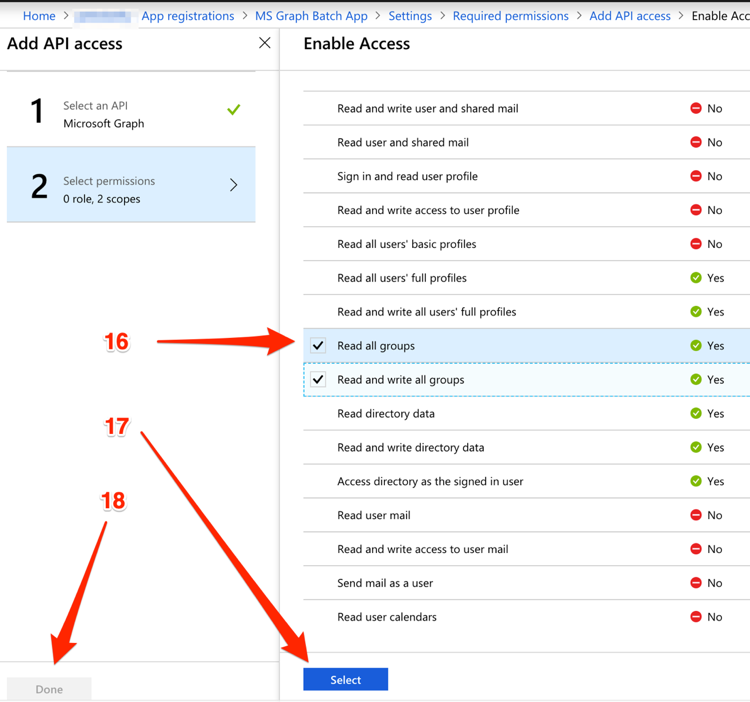
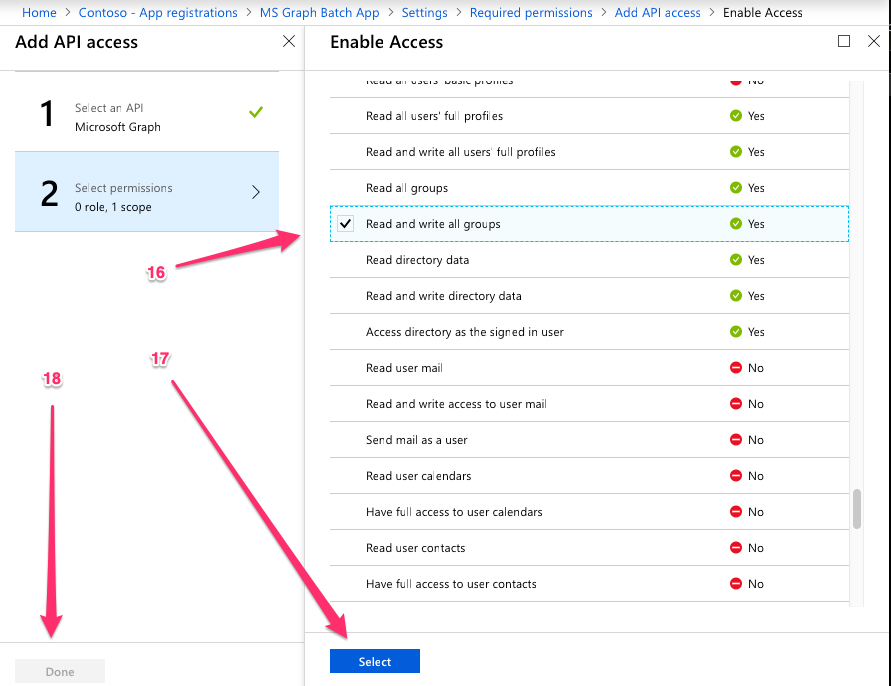
updates based on jasonjoh comments

diff --git a/Lab.md b/Lab.md
@@ -62,7 +62,7 @@ This step will create a new Azure Active Directory Application which will be use
 ![app-perms-2](./Images/app-perms2.png)
 
 15. On the **Enable Access** blade, scroll down to the Delegated Permissions section
-16. Select the **Read all groups** and the **Read and write all groups** delegated permissions
+16. Select the **Read and write all groups** delegated permissions
 17. Click **Select** at the bottom of the blade
 18. Click **Done** at the bottom of the Add API access blade
 
@@ -127,13 +127,16 @@ This step will create a new custom connector which can be used in Flow or in Azu
 
 The final step to ensure our connector is ready for use is to authorize and test the custom connector to create a cached connection.
 
+> [!IMPORTANT]
+> The following steps requires that you are logged in with administrator privileges.
+
 1. On the Connector configuration screen, click on the **Test** link (“4 Test”) in the navigation menu
 2. Click on **+ New Connection** link
 3. Click **Create** and sign in with the Azure Active Directory account
 
 ![flow-conn-7](./Images/flow-conn7.png)
 
-4. Check **Consent on behalf of your organization** and then click **Accept **to Authorize Permissions
+4. Check **Consent on behalf of your organization** and then click **Accept** to Authorize Permissions
 
 ![flow-conn-8](./Images/flow-conn8.png)
 
@@ -194,11 +197,31 @@ In addition to sequencing and dependency operations, JSON Batching assumes a bas
 
 For example, execute the following two queries in the [Microsoft Graph Explorer](https://developer.microsoft.com/en-us/graph/graph-explorer).
 
-1. Query the /v1.0/$batch endpoint using the url “/me”
+1. Query the `/v1.0/$batch` endpoint using the url “/me” (copy and paste request below).
+
+```
+   "requests" : [
+        {
+          "id": 1,
+          "url": "/me",
+          "method": "GET"
+        }
+   ]
+```
 
 ![graph-explore-3](./Images/graph-explore3.png)
 
-2. Query the /beta/$batch endpoint url “/me”
+2. Now query the `/beta/$batch` endpoint url “/me”  with the same request content (copy and paste request below).
+
+```
+   "requests" : [
+        {
+          "id": 1,
+          "url": "/me",
+          "method": "GET"
+        }
+   ]
+```
 
 ![graph-explore-4](./Images/graph-explore4.png)
 
@@ -325,11 +348,13 @@ In the end our Flow will look similar to the following image:
 }
 ```
 
-16.	Click `REPLACE WITH FORMULA` and replace with the following formula:
+16.	Click `REPLACE WITH FORMULA` and paste the following formula into the **Expression**:
 
 ```
 body('Batch_POST-groups')?['responses']?[0]?['body']?['id']
 ```
+
+![flow-formula](./Images/flow-formula.png)
 
 This formula specifies that we want to use the group ID from the result of the first action.
 
